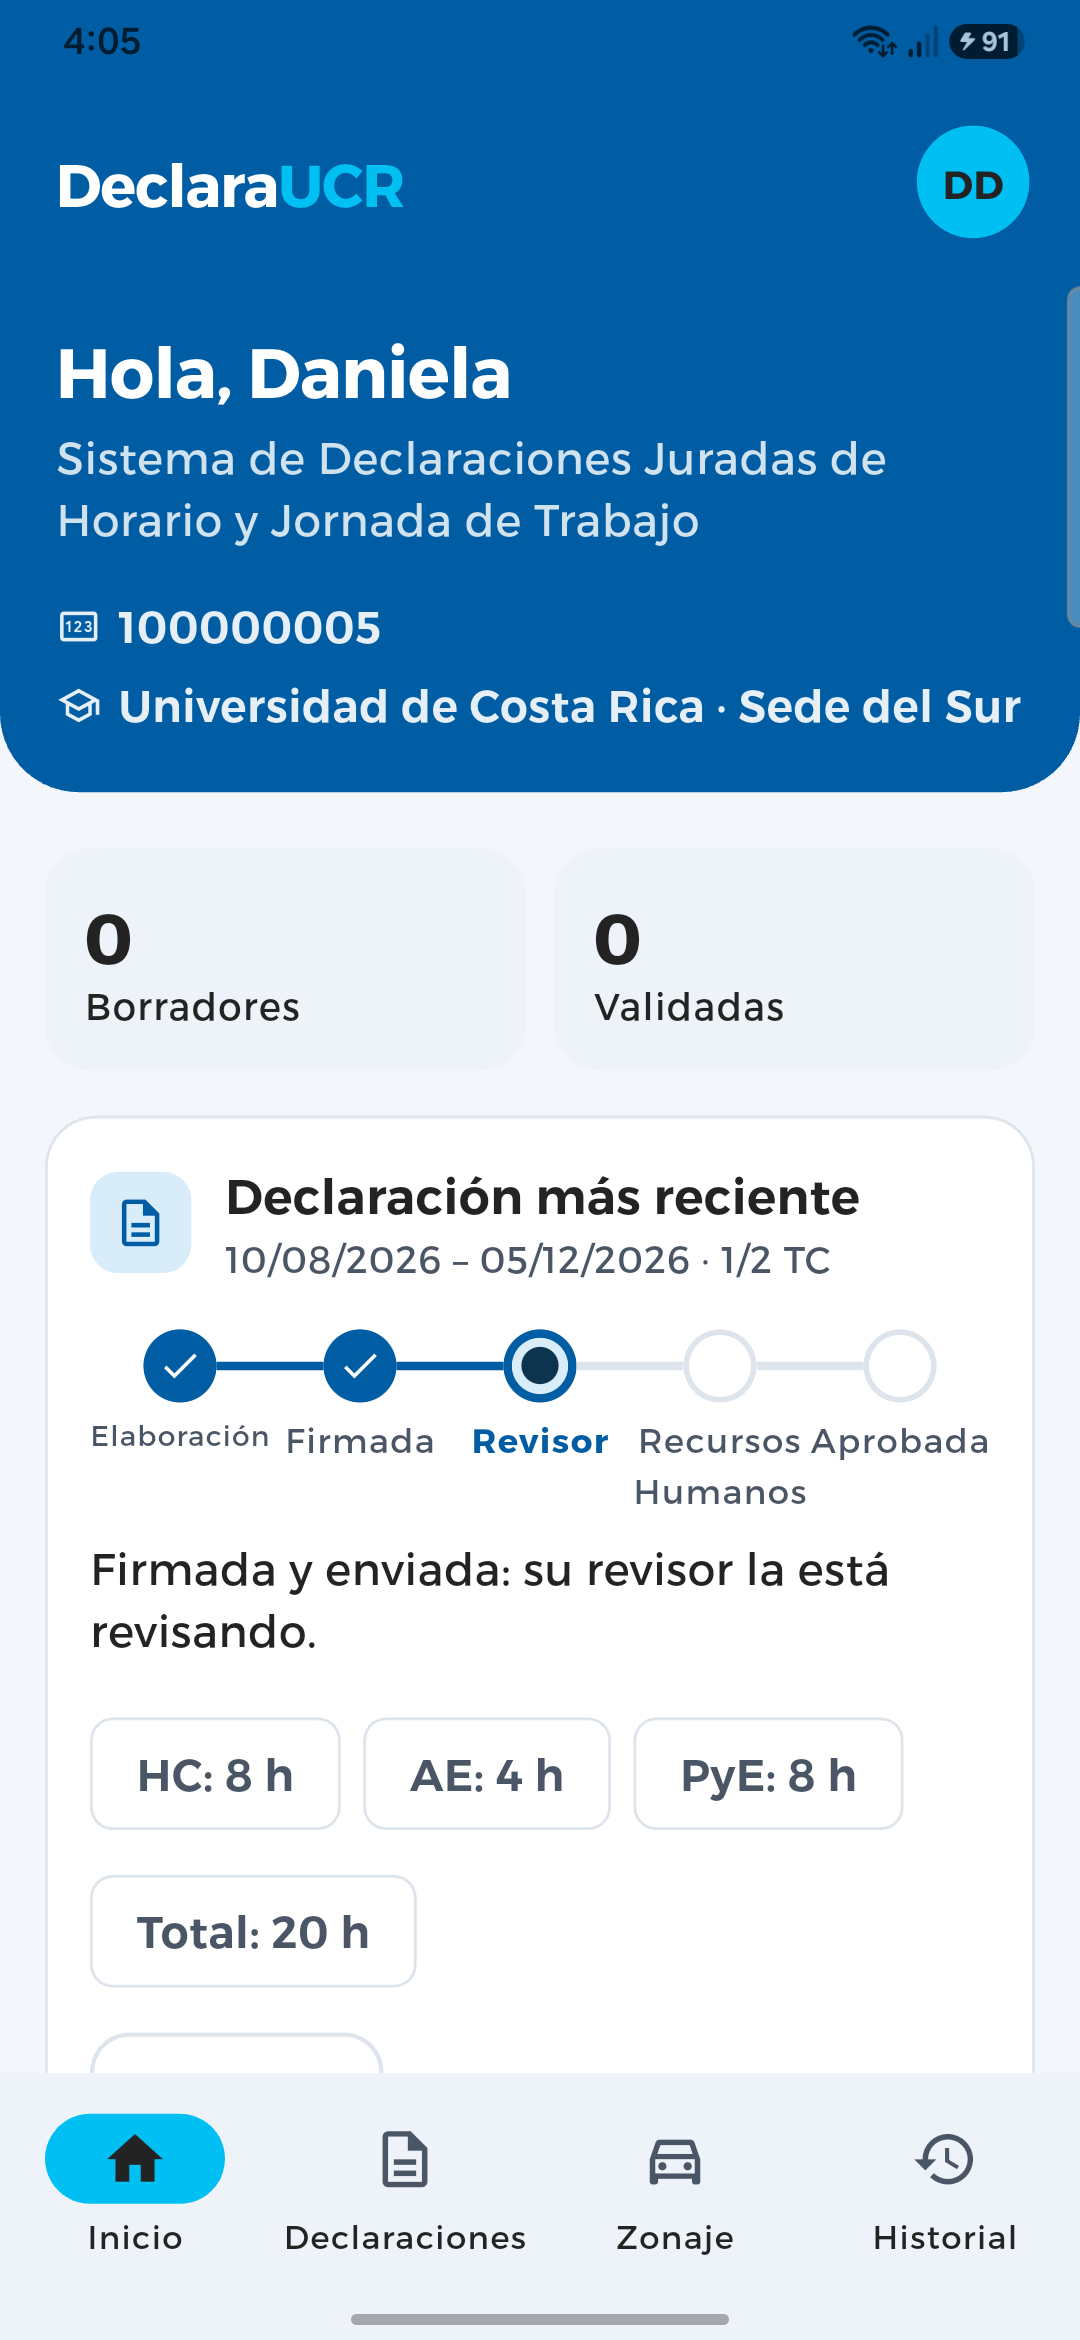
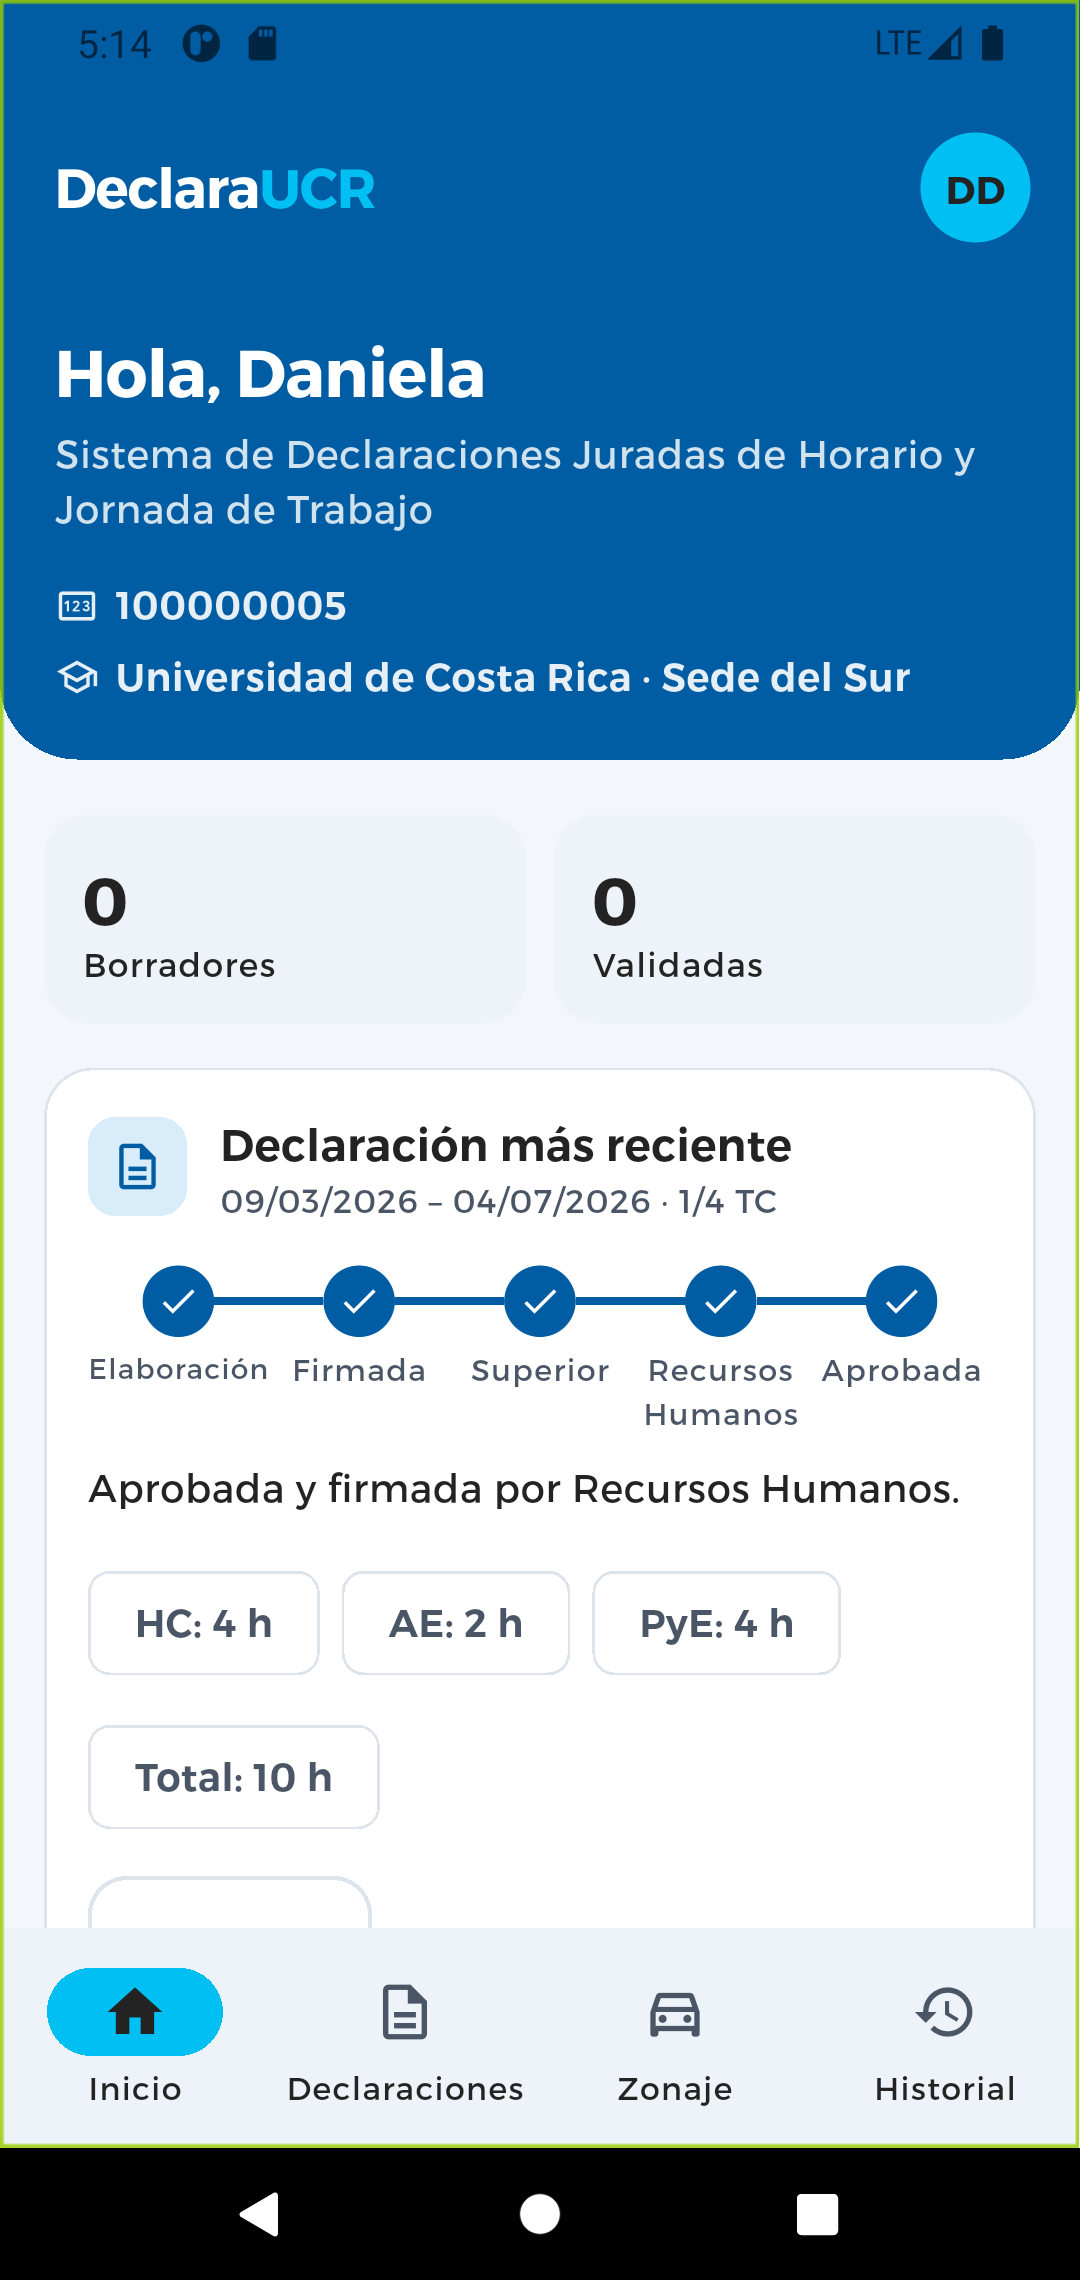
docs: 2.0.0+9 guided tour in the deliverables, new guide screenshots
Version 2.0.0+9. Matriz: U-06 redone as a guided tour, new row T-09 (the
list skipped a just-saved draft). Informe: version row, tests repeated on
2.0.0+9 and the full flow by hand on the emulator. Guía: guided tour and
"Editar mis datos" sections; screenshots retaken with 2.0.0+9 (none says
"Revisor" any more).

diff --git a/entregables/04-matriz-mejoras/matriz-mejoras.md b/entregables/04-matriz-mejoras/matriz-mejoras.md
@@ -64,21 +64,22 @@ trazabilidad quede completa.
 | T-06 | Recorrido 20/11/2026 (D-02) | La cuadrícula no se podía usar con TalkBack | Cada media hora es un botón con día, hora y contenido | Alta | Prueba "with TalkBack, each half hour says what it has and places (D-02)"; commit `afeb1ee` (PR #8) | Verificada (falta repetirla en el teléfono) |
 | T-07 | Recorrido 20/11/2026 (D-03) | Chips de horas leídos como casillas | Leerlos como texto | Baja | `lib/screens/home_screen.dart` (`_HoursChip`); commit `afeb1ee` (PR #8) | Verificada |
 | T-08 | Ensayo de las sesiones 21/11/2026 (2.0.0+7) | Después de guardar un borrador existente, la lista de declaraciones sigue mostrando las horas anteriores hasta reiniciar la app (lo guardado en el servidor sí es correcto) | Que la lista se actualice al guardar (`watchAll` en `proyecto1_declaration_repository.dart`). Con el SDK real de Firestore y las reglas del P1 (emulador Android) la lista ya se actualiza; no se reprodujo el fallo. Queda una prueba de integración que lo vigila | Media | `integration_test/release_8_rules_test.dart` pasa, 27/11/2026; release v2.0.0+8 (APK de `abc5818`, PR #34) | Verificada en emulador (falta confirmarla en el teléfono, retest §6.7) |
+| T-09 | Prueba de integración 27/11/2026 (2.0.0+8) | Al guardar el primer borrador, la lista lo recibe antes de que el servidor confirme la escritura; leer su versión del servidor da `PERMISSION_DENIED` (la regla busca la declaración, que aún no existe) y la lista se salta el borrador un instante | Si la declaración aún no está confirmada, su versión se lee de la copia del teléfono. La prueba de integración falla si la lista se salta una declaración, y cubre guardar sin conexión | Media | `integration_test/release_8_rules_test.dart` (falla sin el cambio, pasa con él); commit `096dcbd` (PR #35); release v2.0.0+9 | Verificada |
 | U-01 | Sesión P1, 24/11/2026 (T1) | La persona no sabía cómo empezar la declaración (nunca había hecho una) | Cubierta por U-06: el recorrido de primer uso explica cómo empezar (paso 1, «Inicio») | Baja | Prueba "the tour shows once on a new phone…"; release v2.0.0+8 (APK de `abc5818`, PR #34) | Verificada |
 | U-02 | Sesión P1, 24/11/2026 (formulario) | La lista de **Puesto** deja elegir cualquier puesto, aunque no sea el de la persona | **Descartada por ahora, con justificación:** la app no tiene una fuente del puesto real de la persona (no lo registra la Coordinación ni Administración en el P1). Propuesta: que Administración asigne el puesto en la web y la app lo muestre fijo, como los cursos | Media | Respuesta de P1 en el formulario; informe de pruebas §6.6 | Pendiente con justificación |
 | U-03 | Sesión P2, 24/11/2026 (T1–T2) | No sabía cómo tocar los cuadros para asignar horas en la cuadrícula | Encima de la cuadrícula se ve siempre qué se ubica con cada toque, con su color y pasos numerados («1. Elija qué va a ubicar», «2. Toque el horario para ubicar: …») | Alta | Prueba "the grid always says what a tap places (U-03)"; release v2.0.0+8 (APK de `abc5818`, PR #34) | Verificada |
 | U-04 | Sesión P2, 24/11/2026 (T1) | Después de Validar no vio el botón «Firmar y enviar a mi superior» | Después de Validar, el botón principal del resumen pasa a ser **Firmar y enviar** y un aviso dice que firmar es el siguiente paso | Media | Prueba "a validated declaration offers signing… (U-04)"; release v2.0.0+8 (APK de `abc5818`, PR #34) | Verificada |
 | U-05 | Sesión P2, 24/11/2026 (T1) | Después de Validar, Atrás lo devolvió al editor y la declaración volvió a Borrador | Atrás después de validar vuelve al inicio; solo «Corregir» abre el editor. El editor ya no guarda como borrador una declaración validada sin cambios | Media | Prueba "Back after validating goes to the start… (U-05)"; release v2.0.0+8 (APK de `abc5818`, PR #34) | Verificada |
-| U-06 | Sesiones P1 y P2, 24/11/2026 | Falta un tutorial la primera vez que explique cada parte | Recorrido de 4 pasos (Inicio, Su declaración, El horario, Validar y firmar) la primera vez en el teléfono, y desde el perfil en «Cómo funciona» | Media | Prueba "the tour shows once on a new phone, then from the profile (U-06)"; release v2.0.0+8 (APK de `abc5818`, PR #34) | Verificada |
+| U-06 | Sesiones P1 y P2, 24/11/2026 | Falta un tutorial la primera vez que explique cada parte | Recorrido guiado la primera vez en el teléfono, y desde el perfil en «Cómo funciona». En la 2.0.0+8 eran 4 páginas fijas; el equipo lo encontró demasiado básico y en la **2.0.0+9** recorre las pantallas reales con una docente ficticia: enfoca una parte a la vez (el resto se oscurece y desenfoca), dice para qué sirve y qué va en cada campo, y avanza al tocar («Toque para continuar»). Cubre Inicio, Declaraciones, el formulario, el horario, el resumen, Zonaje e Historial (24 pasos); no guarda nada | Media | Prueba "the tour shows once on a new phone, then from the profile (U-06)" (recorre los 24 pasos y falla si uno no encuentra su parte) y "the tour teacher has a complete, valid declaration"; revisado en el emulador Android; release v2.0.0+9 | Verificada |
 | U-07 | Sesión P2, 24/11/2026 | El perfil no deja editar el nombre ni la cédula | Editar nombre, cédula (9 dígitos, se reserva la nueva) y teléfono desde el perfil; las declaraciones ya firmadas conservan sus datos. Correo, sede y carrera siguen con Administración | Media | Pruebas "editing the own profile (U-07)" y "the person corrects name, cédula and phone (U-07)"; reglas del P1 en `integration_test/release_8_rules_test.dart`; release v2.0.0+8 (APK de `abc5818`, PR #34) | Verificada |
 
 ## 5. Resumen
 
 - **Revisión del P1:** 1 observación del docente (P1-03, verificada en la 2.0.0+8) y 2 de la revisión del
   equipo (1 verificada, 1 pendiente con justificación: P1-02 necesita una Cloud Function).
-- **Pruebas propias del Proyecto 2:** 8 (todas verificadas; T-08 en emulador, falta confirmarla en el teléfono).
+- **Pruebas propias del Proyecto 2:** 9 (todas verificadas; T-08 en emulador, falta confirmarla en el teléfono).
 - **Sesiones con usuarios:** 7 hallazgos de P1 y P2 (P3 no reportó cambios): 6 verificados en la 2.0.0+8 (U-01 y
-  U-03 a U-07) y 1 pendiente con justificación (U-02).
+  U-03 a U-07; el recorrido de U-06 se rehízo en la 2.0.0+9) y 1 pendiente con justificación (U-02).
 - **Socialización:** `[COMPLETAR al cierre: __ observaciones (__ aceptadas, __ parcialmente, __ descartadas);
   __ mejoras implementadas]`.
 

diff --git a/entregables/05-informe-pruebas/informe-pruebas.md b/entregables/05-informe-pruebas/informe-pruebas.md
@@ -21,6 +21,7 @@ corrigió.
 | 2.0.0+6 | `fc4caba` | CP-06 (persistencia tras reinstalar y actualizar) |
 | 2.0.0+7 | `afeb1ee` (fusionado en `af4b3f2`, PR #8) | Recorrido exploratorio y correcciones del 20/11/2026; versión para las sesiones con usuarios |
 | 2.0.0+8 | `abc5818` (PR #34) | Correcciones de las sesiones (U-01, U-03 a U-07), rol «Superior» (P1-03); nueva comprobación con participantes (§6.7) |
+| 2.0.0+9 | ver la [release](https://github.com/CrisSalas07/DeclaraUCR/releases/tag/v2.0.0%2B9) (PR #35 y #36) | Recorrido guiado sobre las pantallas reales (U-06 rehecho) y la lista que ya no se salta un borrador recién guardado (T-09); recorrido completo en el emulador el 27/11/2026 (§3); nueva comprobación con participantes (§6.7) |
 
 Las sesiones con usuarios deben hacerse **todas con la misma versión** (§8). La recomendada es la 2.0.0+7,
 porque ya trae la corrección de D-01, que afecta justo la tarea 1 del guion.
@@ -70,6 +71,15 @@ Qué reglas de negocio de alto riesgo cubren:
 Además, contra las **reglas reales del Proyecto 1** en los emuladores: `backend/proyecto1/verify.mjs` (nadie lee
 ni escribe lo de otra persona, no hay dos declaraciones por período, no se salta la firma) e
 `integration_test/sign_rules_test.dart` (la firma desde el código de la app).
+
+**Repetidas el 27/11/2026 sobre la 2.0.0+9:** `flutter analyze` sin problemas y **118 pruebas, todas pasan**
+(se agregaron las de U-03 a U-07, el recorrido guiado y los datos de la docente de ejemplo). En el emulador
+Android (Pixel 4, Android 11) con las reglas del P1: `verify.mjs` (26 comprobaciones), `sign_rules_test.dart` y
+`release_8_rules_test.dart` (lista, edición del perfil y guardar sin conexión) pasan. Además se hizo **a mano el
+recorrido completo** con la cuenta ficticia `docente@ucr.ac.cr`: recorrido guiado, crear la declaración, ubicar
+atención y planificación en la cuadrícula, validar, firmar y enviar al superior (queda «Pendiente de firma del
+superior»), ver el PDF, Zonaje, Historial y editar el teléfono en «Mis datos»; todo funcionó. Las capturas de
+esa corrida están en la guía de uso (`07-guia-uso/capturas/`).
 
 ## 4. Recorrido exploratorio (20/11/2026)
 
@@ -223,7 +233,7 @@ de uso de 1 a 5 y comentarios abiertos (§8), además de utilidad, claridad y fu
 | U-03 | No sabía cómo tocar los cuadros para asignar horas en la cuadrícula; no entendió la lógica de la app | P2, T1–T2 | Necesitó ayuda para ubicar horas (proceso 2) | Alta | Encima de la cuadrícula se ve siempre qué se ubica con cada toque, con su color y pasos numerados. 2.0.0+8; se vuelve a probar con P2 (§6.7) |
 | U-04 | Después de Validar no vio el botón «Firmar y enviar a mi superior» | P2, T1 | No supo cuál era el siguiente paso | Media | Después de Validar, el botón principal es **Firmar y enviar** y un aviso dice que es el siguiente paso. 2.0.0+8 |
 | U-05 | Después de Validar, Atrás lo devolvió al editor y la declaración volvió a Borrador | P2, T1 | Salió del resumen sin firmar y tuvo que validar otra vez | Media | Atrás después de validar vuelve al inicio sin tocar la declaración; solo «Corregir» abre el editor. 2.0.0+8 |
-| U-06 | Pide un tutorial la primera vez que explique cada parte (lo dijeron P2 y, en parte, P1) | P2 (y P1, T1) | Sin guía no entiende la lógica de la app | Media | Recorrido de 4 pasos la primera vez en el teléfono, y en el perfil («Cómo funciona»). 2.0.0+8 |
+| U-06 | Pide un tutorial la primera vez que explique cada parte (lo dijeron P2 y, en parte, P1) | P2 (y P1, T1) | Sin guía no entiende la lógica de la app | Media | Recorrido la primera vez en el teléfono, y en el perfil («Cómo funciona»): 4 páginas en la 2.0.0+8; en la 2.0.0+9, un recorrido guiado sobre las pantallas reales con una docente ficticia que enfoca cada parte y explica qué va en cada campo |
 | U-07 | El perfil solo muestra los datos: no deja corregir el nombre ni la cédula | P2 (después de las tareas) | Si se equivoca al registrarse (P1 puso sus datos reales), no lo puede corregir | Media | Editar nombre, cédula (se reserva la nueva y se libera la anterior) y teléfono desde el perfil; un borrador sin firmar toma los datos corregidos. Correo, sede y carrera siguen con Administración. 2.0.0+8 |
 
 Qué vigilar en particular (son los puntos donde el recorrido sugiere que alguien se puede trabar):
